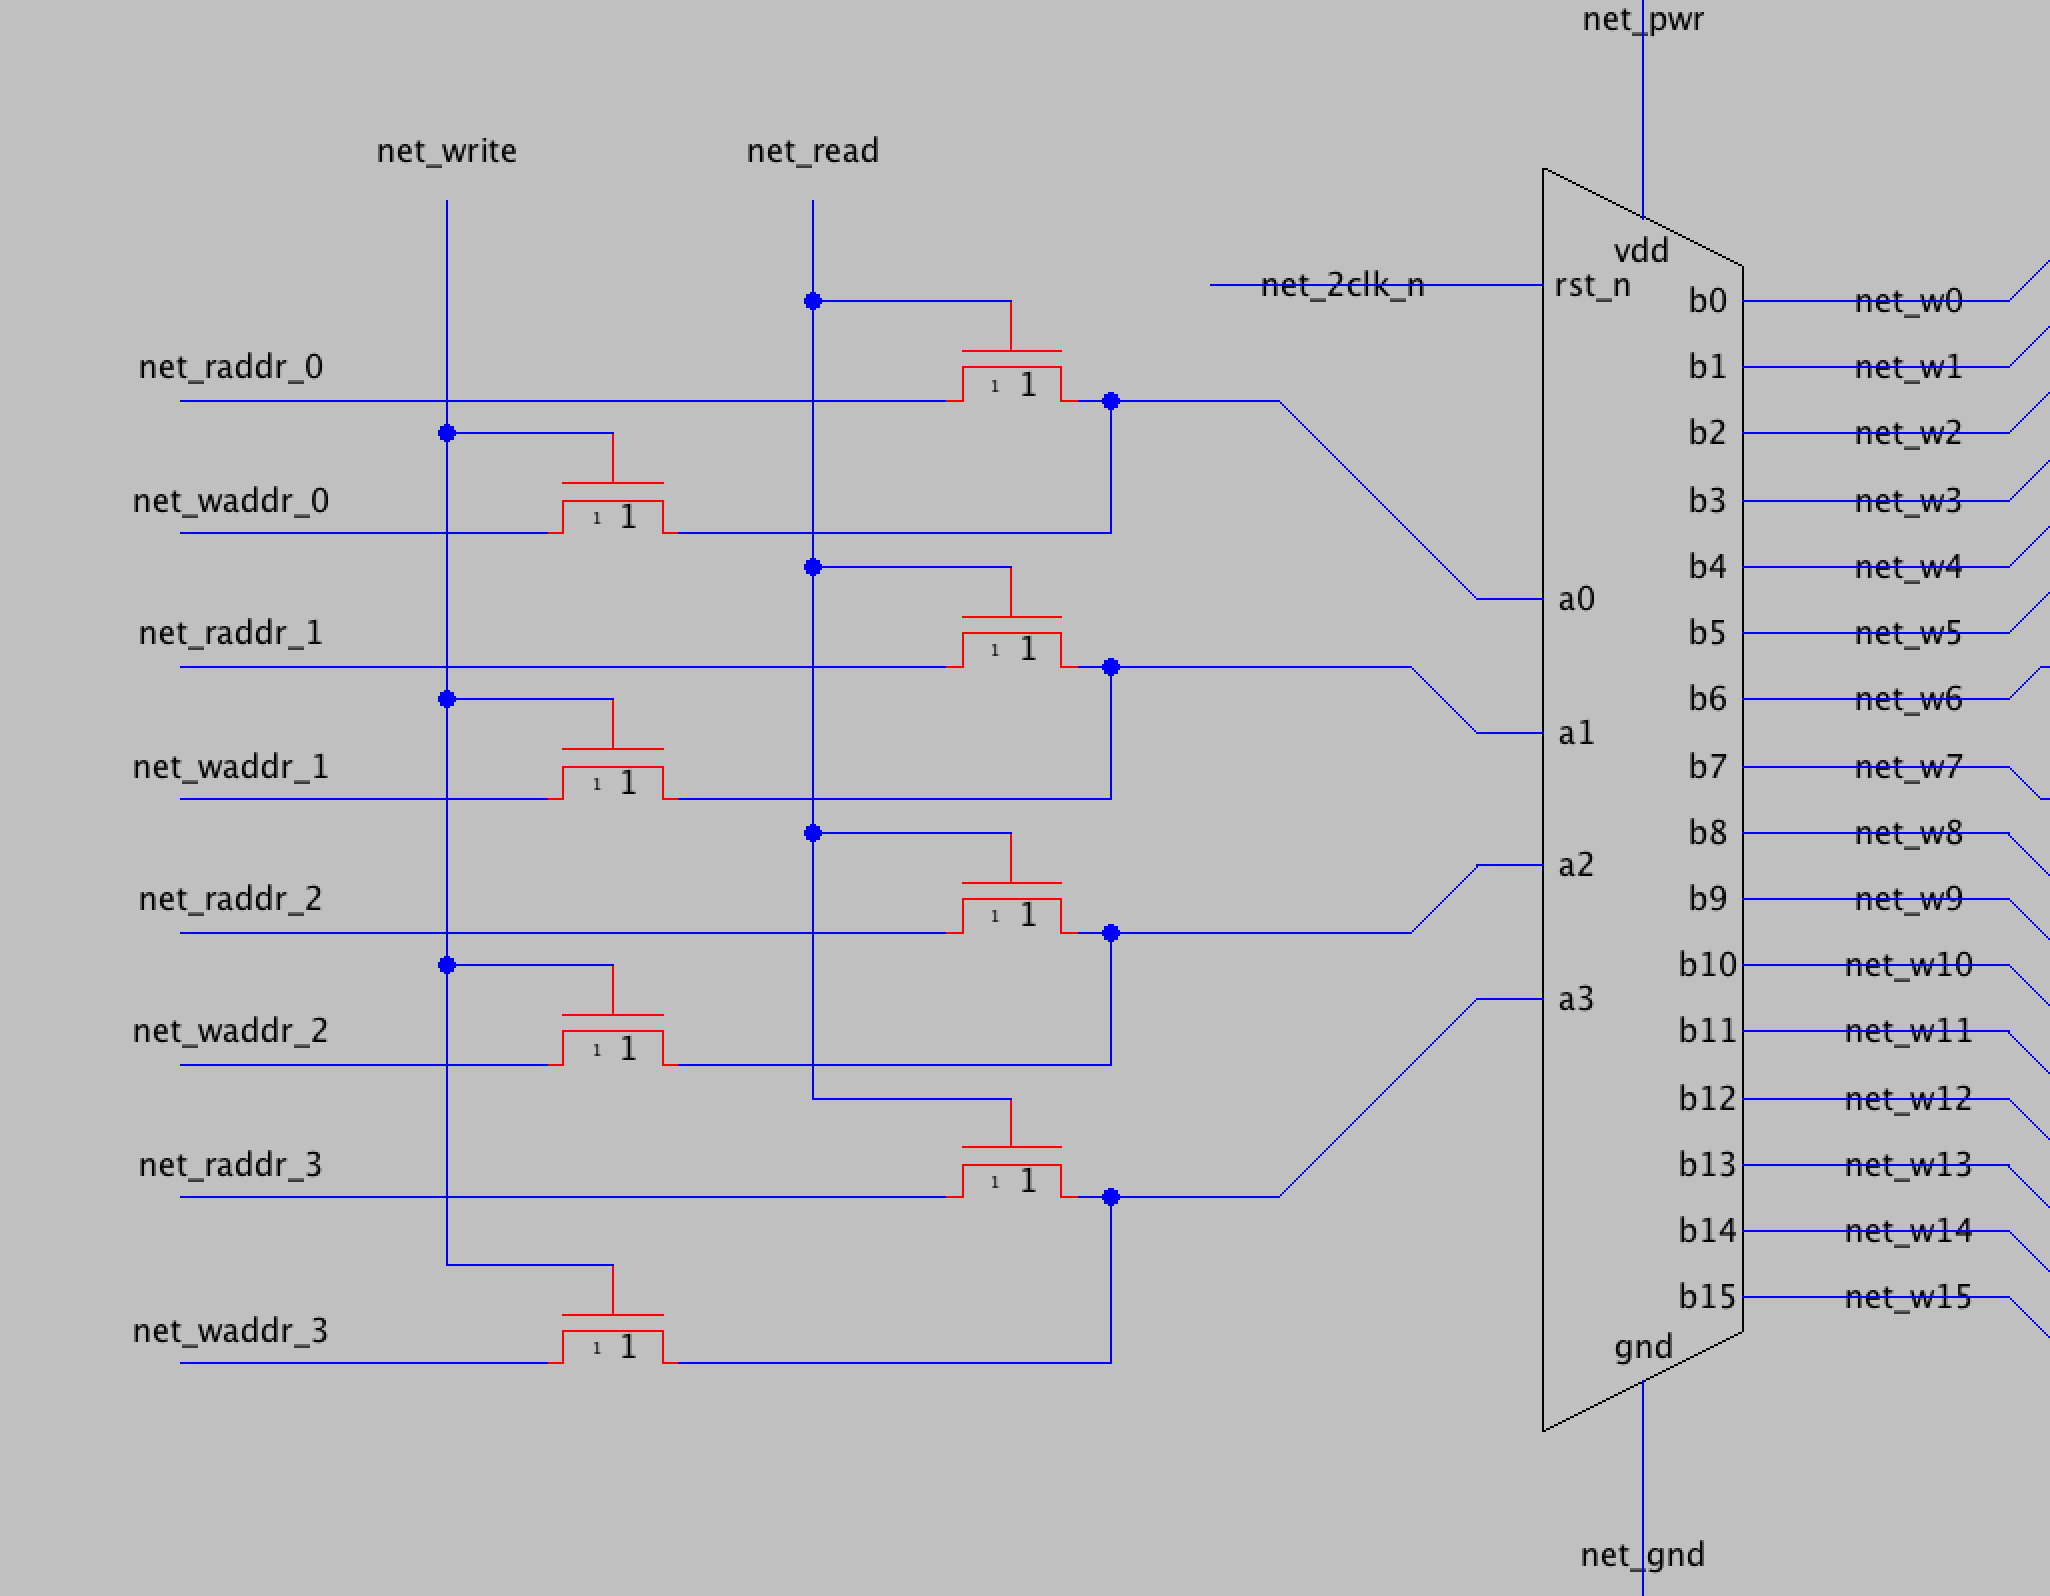
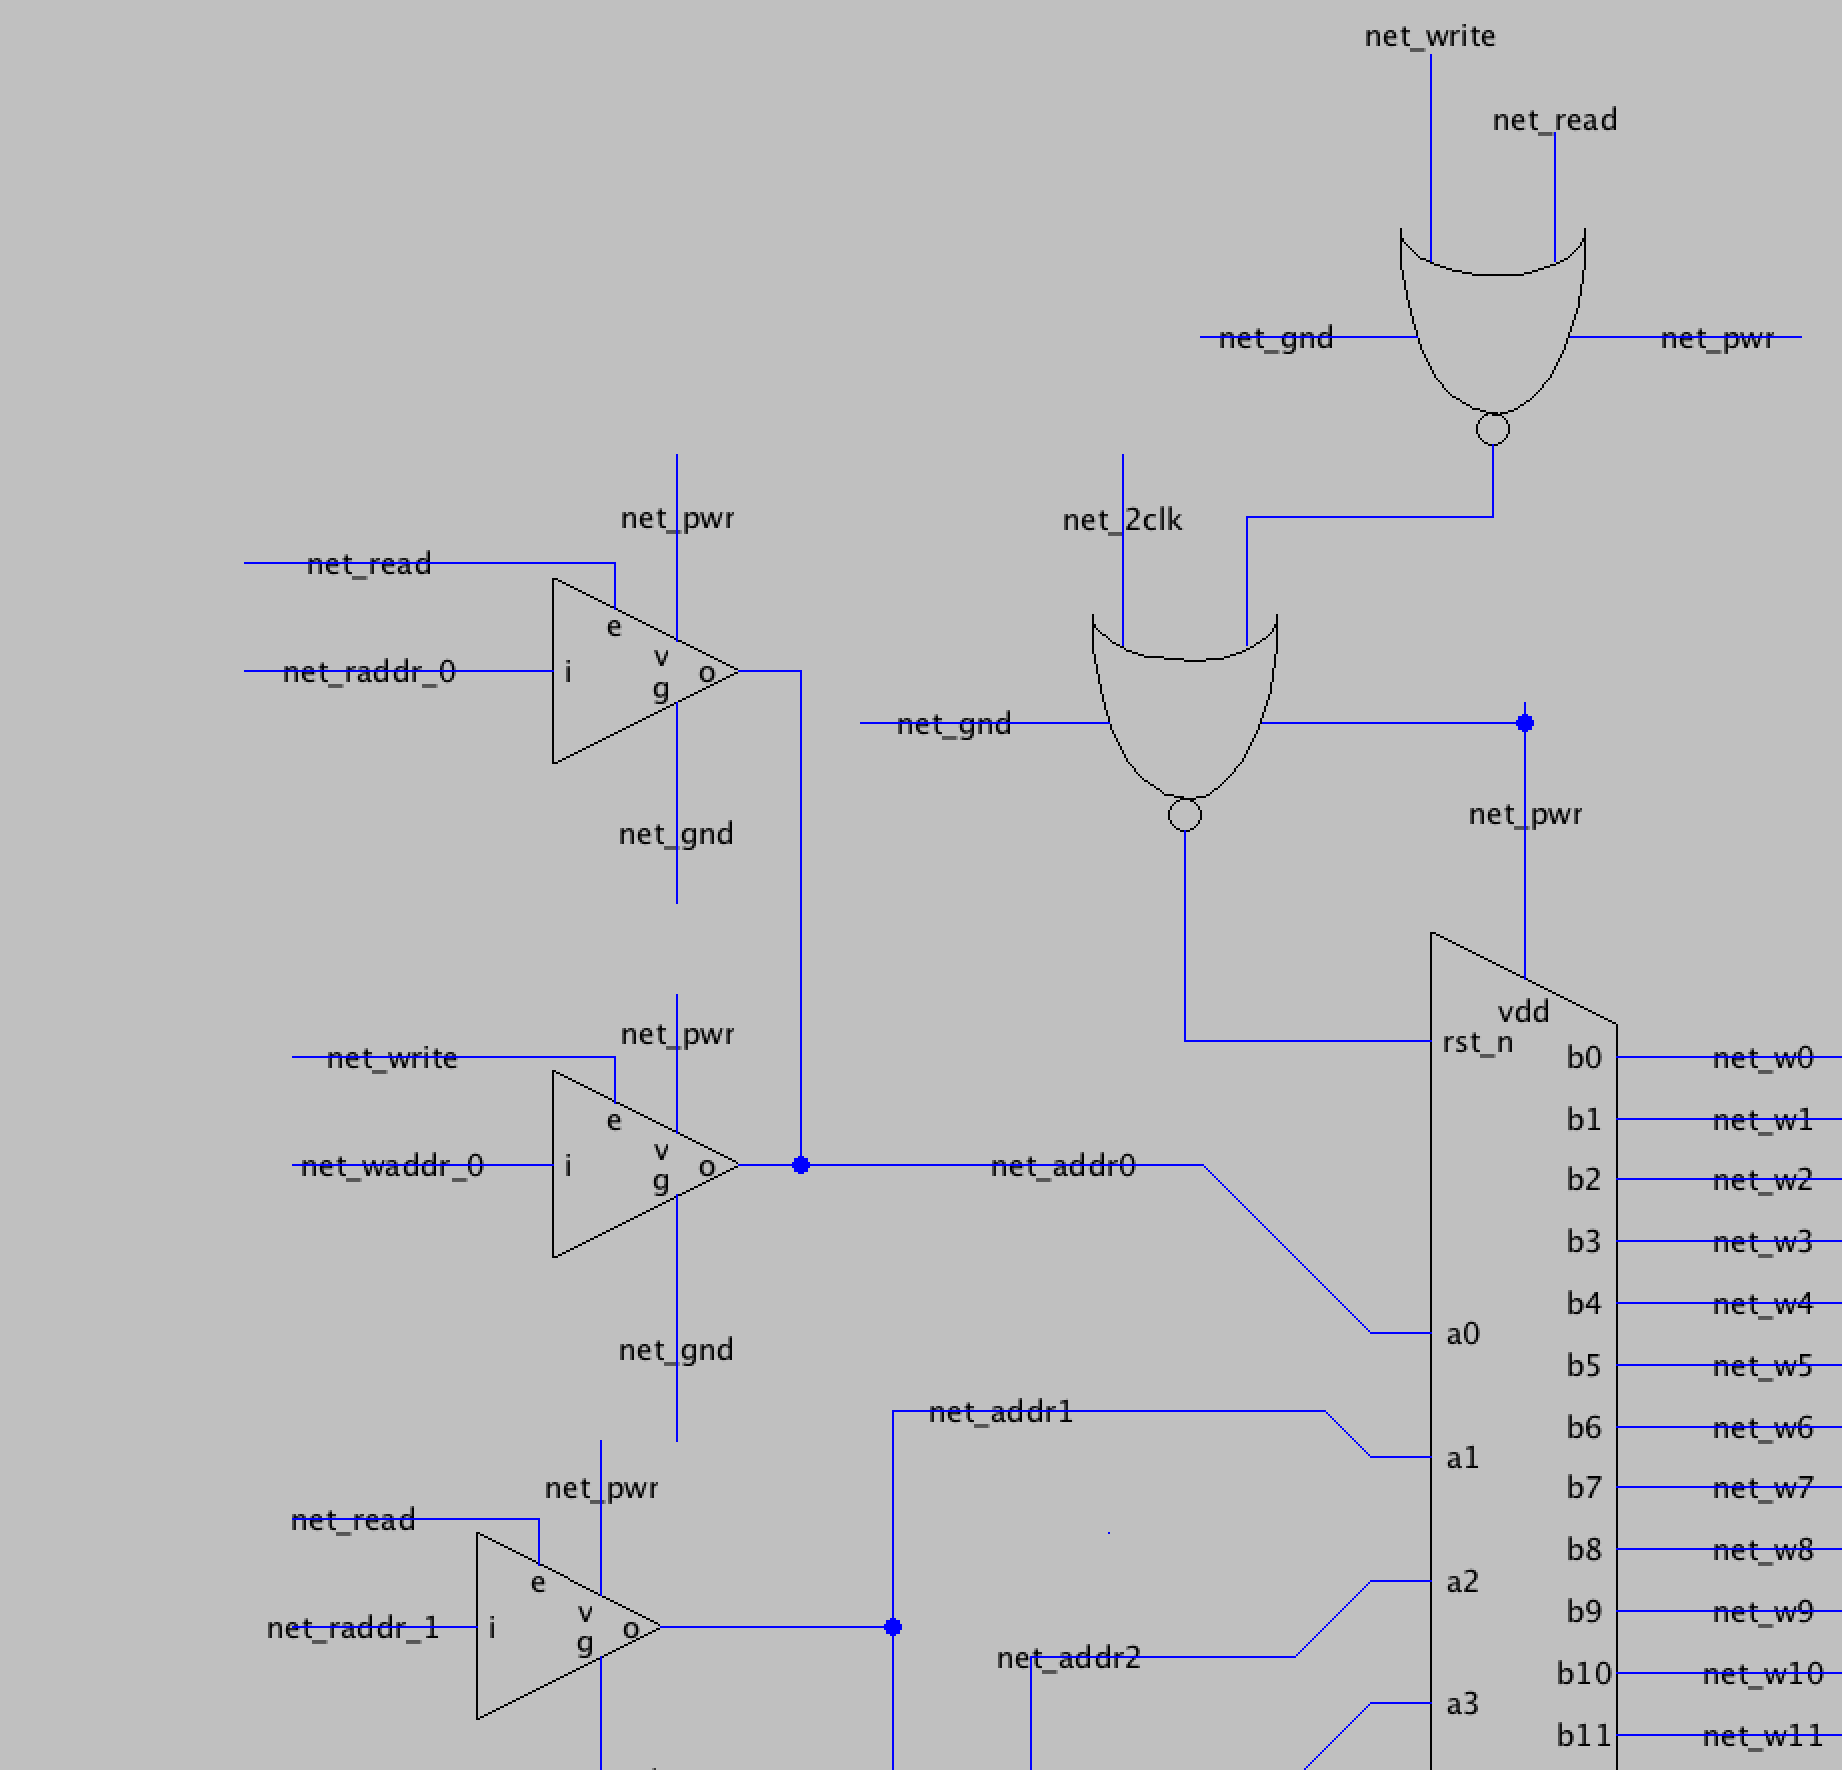
finished energy and revised the overall schematic

diff --git a/report/main.tex b/report/main.tex
@@ -701,7 +701,7 @@ The entire schematic is below in Figure \ref{fig:topLevelSchematic}.
 	\label{fig:topLevelSchematic}
 \end{figure}
 
-The addresses are different for read and write, so we need an enable for both addresses. We use pass transistors to achieve this. The inputs of the decoder are robust enough to handle the $V_th$ drop caused by the enable transistor.
+The addresses are different for read and write, so we need an enable for both addresses. We use a minimum-sized tri-state buffer to achieve this. There is also logic connected to $rst\_n$ on the decoder. This prevents a wordline going high based on the inputs if we are neither reading nor writing, but ensures that when the 1GHz clock is low, the wordlines are driven low so that the pre-charge module does not overwrite the values stored in the SRAM.
 
 \begin{figure}[H]
 	\centering
@@ -922,8 +922,8 @@ $$0x0000 \rightarrow 0xFFFF = 1.78964pW\textnormal{ (from $7ns \rightarrow 9ns$)
 $$0xFFFF \rightarrow 0x0000 = 1.82591pW\textnormal{ (from $11ns \rightarrow 13ns$)}$$
 \subsubsection{Dequeue Energy}
 This was a test for dequeueing a single value. We tested both $0x0000$ and $0xFFFF$
-$$0x0000 = 1.74116W\textnormal{ (from $5ns \rightarrow 7ns$)}$$
-$$0xFFFF = 1.76543W\textnormal{ (from $9ns \rightarrow 11ns$)}$$
+$$0x0000 = 1.74116pW\textnormal{ (from $5ns \rightarrow 7ns$)}$$
+$$0xFFFF = 1.76543pW\textnormal{ (from $9ns \rightarrow 11ns$)}$$
 
 \begin{figure}[H]
 	\centering
@@ -950,8 +950,9 @@ $$E_{standby} = 1.729068pW$$
 \subsubsection{Average Energy}
 The standby energy was measured over a 2ns period that has neither enqueue nor dequeue asserted.
 \begin{align*}
-E_{average} &= 0.15 \times E_{enqueue\&dequeue} + 0.10 \times E_{enqueue} + 0.10 \times E_{dequeue} + 0.10 \times E_{standby}\\
-&= 0.15 \times E_{enqueue\&dequeue} + 0.10 \times E_{enqueue} + 0.10 \times E_{dequeue} + 0.10 \times E_{standby}\\
+E_{average} &= 0.15 \times E_{enqueue\&dequeue} + 0.10 \times E_{enqueue} + 0.10 \times E_{dequeue} + 0.65 \times E_{standby}\\
+&= 0.15 \times 1.796607pW + 0.10 \times 1.82591pW + 0.10 \times 1.76543pW + 0.65 \times 1.729068pW\\
+&= 1.753pW\\
 \end{align*}
 
 % \newpage
